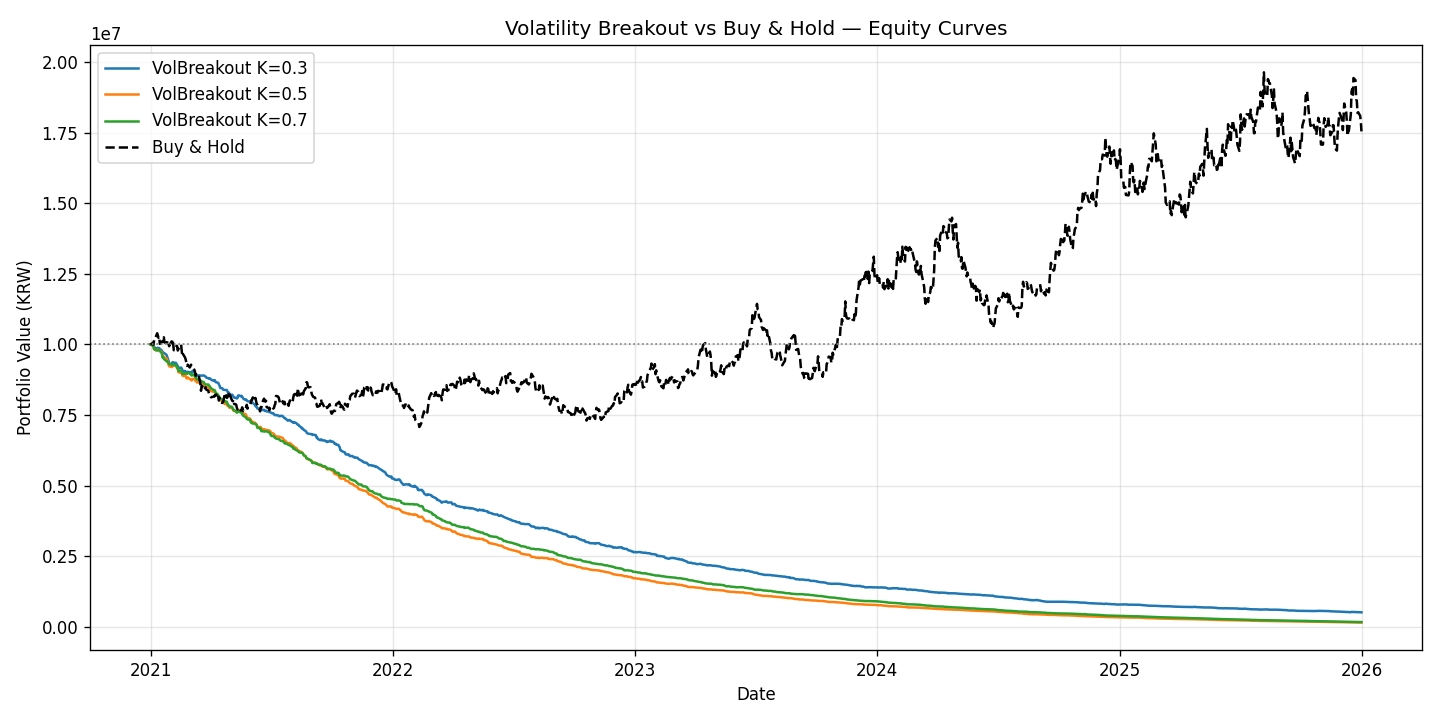
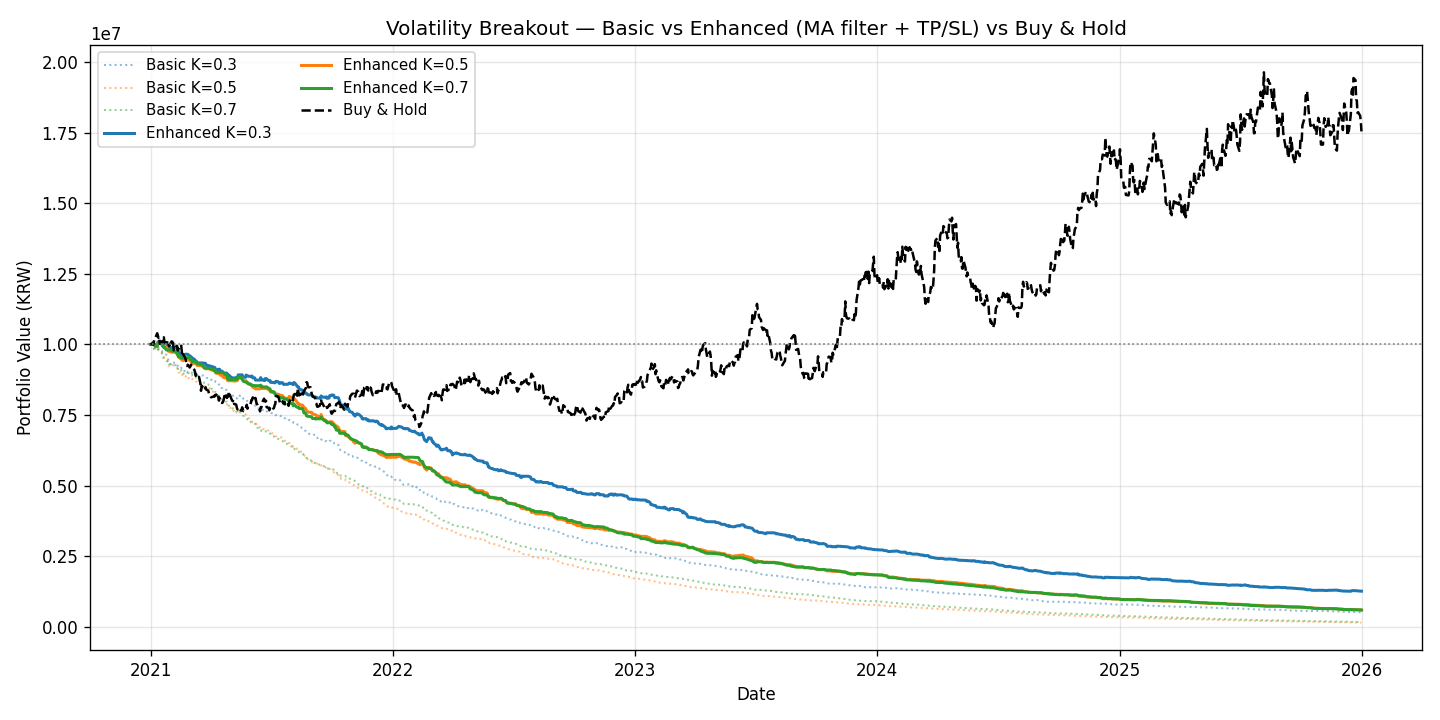
Add MA trend filter and TP/SL exit logic (enhanced strategy)
- run_breakout_enhanced: 5일 이동평균 추세 필터 + ±5%/-3% 익절·손절
- 매수 조건: 변동성 돌파 AND 시가 ≥ 5일 종가 이동평균
- 청산 우선순위: 손절 → 익절 → 종가 매도
- 결과 표/차트에 basic vs enhanced 동시 비교 추가
- 청산 사유별 카운트(tp/sl/close) 출력

https://claude.ai/code/session_01TvzMHyqGmkrN4QV4tk95NB

Changed region(s): [[0.0938, 0.4583, 0.9375, 0.8861], [0.0625, 0.0306, 0.7812, 0.2444]]

diff --git a/volatility_breakout.py b/volatility_breakout.py
@@ -38,6 +38,12 @@ INITIAL_CAPITAL = 10_000_000
 BUY_COST = 0.00015      # 0.015%
 SELL_COST = 0.00195     # 0.195% (수수료 + 세금)
 SLIPPAGE = 0.001        # 0.1%
+
+# Enhanced 전략 파라미터
+MA_WINDOW = 5           # 5일 이동평균 추세 필터
+TAKE_PROFIT = 0.05      # +5% 익절
+STOP_LOSS = 0.03        # −3% 손절
+
 RESULTS_DIR = Path(__file__).resolve().parent / "results"
 
 
@@ -159,6 +165,77 @@ def run_breakout(df: pd.DataFrame, k: float, capital: float) -> dict:
     }
 
 
+def run_breakout_enhanced(
+    df: pd.DataFrame,
+    k: float,
+    capital: float,
+    ma_window: int = MA_WINDOW,
+    take_profit: float = TAKE_PROFIT,
+    stop_loss: float = STOP_LOSS,
+) -> dict:
+    """추세 필터 + 익절/손절이 적용된 변동성 돌파 전략.
+
+    매수 조건 (모두 충족해야 진입):
+        ① 당일 고가 ≥ 매수 기준가 (기존 변동성 돌파)
+        ② 당일 시가 ≥ 직전 ma_window일 종가 이동평균 (상승 추세 필터)
+
+    청산 우선순위:
+        ③ 당일 저가 ≤ 손절가(target × (1-stop_loss)) → 손절가 매도
+        ④ 당일 고가 ≥ 익절가(target × (1+take_profit)) → 익절가 매도
+        ⑤ 그 외 → 종가 매도
+        (③④ 모두 도달 시 보수적으로 손절 우선 처리)
+    """
+    target, triggered = breakout_signals(df, k)
+    valid_prices = (target > 0) & (df["close"] > 0) & target.notna() & df["close"].notna()
+    triggered = triggered & valid_prices
+
+    # 추세 필터: 시가가 직전 ma_window일 종가 이동평균 위
+    ma = df["close"].shift(1).rolling(ma_window).mean()
+    trend_ok = (df["open"] >= ma).fillna(False)
+    triggered = triggered & trend_ok
+
+    tp_price = target * (1 + take_profit)
+    sl_price = target * (1 - stop_loss)
+
+    hit_sl = triggered & (df["low"] <= sl_price)
+    hit_tp = triggered & (df["high"] >= tp_price) & ~hit_sl
+    hit_close = triggered & ~hit_sl & ~hit_tp
+
+    exit_price = pd.Series(np.nan, index=df.index, dtype=float)
+    exit_price[hit_sl] = sl_price[hit_sl]
+    exit_price[hit_tp] = tp_price[hit_tp]
+    exit_price[hit_close] = df["close"][hit_close]
+
+    eff_entry = target * (1 + SLIPPAGE) * (1 + BUY_COST)
+    eff_exit = exit_price * (1 - SLIPPAGE) * (1 - SELL_COST)
+
+    daily_ret = pd.Series(0.0, index=df.index)
+    raw = (eff_exit[triggered] / eff_entry[triggered]) - 1.0
+    raw = raw.clip(lower=-0.5, upper=0.5)
+    raw = raw.replace([np.inf, -np.inf], 0.0).fillna(0.0)
+    daily_ret.loc[triggered] = raw
+
+    equity = capital * (1 + daily_ret).cumprod()
+    n_trades = int(triggered.sum())
+    wins = int((daily_ret[triggered] > 0).sum())
+    win_rate = wins / n_trades if n_trades else 0.0
+    total_return = equity.iloc[-1] / capital - 1
+    mdd = (equity / equity.cummax() - 1).min()
+
+    return {
+        "equity": equity,
+        "daily_return": daily_ret,
+        "triggered": triggered,
+        "total_return": float(total_return),
+        "mdd": float(mdd),
+        "win_rate": float(win_rate),
+        "trades": n_trades,
+        "tp_count": int(hit_tp.sum()),
+        "sl_count": int(hit_sl.sum()),
+        "close_count": int(hit_close.sum()),
+    }
+
+
 def run_buy_and_hold(df: pd.DataFrame, capital: float) -> pd.Series:
     """첫날 시가 매수 → 마지막 날 종가 매도 (수수료·슬리피지 반영)."""
     entry_price = df["open"].iloc[0] * (1 + SLIPPAGE) * (1 + BUY_COST)
@@ -197,26 +274,45 @@ def main() -> None:
     cap_per_stock = INITIAL_CAPITAL / n
 
     per_rows: list[dict] = []
-    portfolios: dict[float, pd.Series] = {}
+    portfolios_basic: dict[float, pd.Series] = {}
+    portfolios_enhanced: dict[float, pd.Series] = {}
 
     for k in K_VALUES:
-        portfolio_eq: pd.Series | None = None
+        eq_basic_total: pd.Series | None = None
+        eq_enh_total: pd.Series | None = None
         for ticker, df in data.items():
-            res = run_breakout(df, k, cap_per_stock)
-            vbt_extra = vbt_stats_from_returns(res["daily_return"], cap_per_stock)
+            res_b = run_breakout(df, k, cap_per_stock)
+            res_e = run_breakout_enhanced(df, k, cap_per_stock)
+            vbt_b = vbt_stats_from_returns(res_b["daily_return"], cap_per_stock)
+            vbt_e = vbt_stats_from_returns(res_e["daily_return"], cap_per_stock)
             per_rows.append({
-                "ticker": ticker,
-                "name": TICKERS[ticker],
-                "K": k,
-                "total_return_%": round(res["total_return"] * 100, 2),
-                "mdd_%": round(res["mdd"] * 100, 2),
-                "win_rate_%": round(res["win_rate"] * 100, 2),
-                "trades": res["trades"],
-                "vbt_sharpe": round(vbt_extra["vbt_sharpe"], 3),
+                "strategy": "basic",
+                "ticker": ticker, "name": TICKERS[ticker], "K": k,
+                "total_return_%": round(res_b["total_return"] * 100, 2),
+                "mdd_%": round(res_b["mdd"] * 100, 2),
+                "win_rate_%": round(res_b["win_rate"] * 100, 2),
+                "trades": res_b["trades"],
+                "tp_count": "-", "sl_count": "-", "close_count": "-",
+                "vbt_sharpe": round(vbt_b["vbt_sharpe"], 3),
             })
-            eq = res["equity"]
-            portfolio_eq = eq if portfolio_eq is None else portfolio_eq.add(eq, fill_value=0)
-        portfolios[k] = portfolio_eq
+            per_rows.append({
+                "strategy": "enhanced",
+                "ticker": ticker, "name": TICKERS[ticker], "K": k,
+                "total_return_%": round(res_e["total_return"] * 100, 2),
+                "mdd_%": round(res_e["mdd"] * 100, 2),
+                "win_rate_%": round(res_e["win_rate"] * 100, 2),
+                "trades": res_e["trades"],
+                "tp_count": res_e["tp_count"],
+                "sl_count": res_e["sl_count"],
+                "close_count": res_e["close_count"],
+                "vbt_sharpe": round(vbt_e["vbt_sharpe"], 3),
+            })
+            eq_basic_total = res_b["equity"] if eq_basic_total is None \
+                else eq_basic_total.add(res_b["equity"], fill_value=0)
+            eq_enh_total = res_e["equity"] if eq_enh_total is None \
+                else eq_enh_total.add(res_e["equity"], fill_value=0)
+        portfolios_basic[k] = eq_basic_total
+        portfolios_enhanced[k] = eq_enh_total
 
     # Buy & hold portfolio
     bh_equity: pd.Series | None = None
@@ -225,23 +321,22 @@ def main() -> None:
         bh_equity = eq if bh_equity is None else bh_equity.add(eq, fill_value=0)
 
     # Per-stock × K table
-    df_per = pd.DataFrame(per_rows).sort_values(["K", "ticker"]).reset_index(drop=True)
+    df_per = pd.DataFrame(per_rows).sort_values(["strategy", "K", "ticker"]).reset_index(drop=True)
 
     # Portfolio summary
-    summary_rows: list[dict] = []
-    for k, eq in portfolios.items():
-        summary_rows.append({
-            "strategy": f"VolatilityBreakout K={k}",
+    def stats(eq: pd.Series) -> dict:
+        return {
             "final_value": round(float(eq.iloc[-1]), 0),
             "total_return_%": round(eq.iloc[-1] / INITIAL_CAPITAL * 100 - 100, 2),
             "mdd_%": round(float((eq / eq.cummax() - 1).min()) * 100, 2),
-        })
-    summary_rows.append({
-        "strategy": "Buy&Hold (equal weight)",
-        "final_value": round(float(bh_equity.iloc[-1]), 0),
-        "total_return_%": round(bh_equity.iloc[-1] / INITIAL_CAPITAL * 100 - 100, 2),
-        "mdd_%": round(float((bh_equity / bh_equity.cummax() - 1).min()) * 100, 2),
-    })
+        }
+
+    summary_rows: list[dict] = []
+    for k, eq in portfolios_basic.items():
+        summary_rows.append({"strategy": f"Basic K={k}", **stats(eq)})
+    for k, eq in portfolios_enhanced.items():
+        summary_rows.append({"strategy": f"Enhanced K={k} (MA{MA_WINDOW}+TP{int(TAKE_PROFIT*100)}%/SL{int(STOP_LOSS*100)}%)", **stats(eq)})
+    summary_rows.append({"strategy": "Buy&Hold (equal weight)", **stats(bh_equity)})
     df_summary = pd.DataFrame(summary_rows)
 
     # Save outputs
@@ -250,17 +345,22 @@ def main() -> None:
     df_per.to_csv(per_csv, index=False, encoding="utf-8-sig")
     df_summary.to_csv(sum_csv, index=False, encoding="utf-8-sig")
 
-    # Equity curve chart
+    # Equity curve chart — basic vs enhanced vs buy&hold
     fig, ax = plt.subplots(figsize=(12, 6))
-    for k, eq in portfolios.items():
-        ax.plot(eq.index, eq.values, label=f"VolBreakout K={k}", linewidth=1.5)
+    colors_b = {0.3: "#1f77b4", 0.5: "#ff7f0e", 0.7: "#2ca02c"}
+    for k, eq in portfolios_basic.items():
+        ax.plot(eq.index, eq.values, color=colors_b[k], alpha=0.5,
+                linestyle=":", linewidth=1.2, label=f"Basic K={k}")
+    for k, eq in portfolios_enhanced.items():
+        ax.plot(eq.index, eq.values, color=colors_b[k],
+                linewidth=1.8, label=f"Enhanced K={k}")
     ax.plot(bh_equity.index, bh_equity.values, "--", color="black",
-            label="Buy & Hold", linewidth=1.5)
+            linewidth=1.5, label="Buy & Hold")
     ax.axhline(INITIAL_CAPITAL, color="gray", linestyle=":", linewidth=1)
-    ax.set_title("Volatility Breakout vs Buy & Hold — Equity Curves")
+    ax.set_title("Volatility Breakout — Basic vs Enhanced (MA filter + TP/SL) vs Buy & Hold")
     ax.set_xlabel("Date")
     ax.set_ylabel("Portfolio Value (KRW)")
-    ax.legend(loc="best")
+    ax.legend(loc="best", ncol=2, fontsize=9)
     ax.grid(True, alpha=0.3)
     fig.tight_layout()
     chart_path = RESULTS_DIR / "equity_curves.png"
@@ -269,12 +369,12 @@ def main() -> None:
 
     # Drawdown chart
     fig2, ax2 = plt.subplots(figsize=(12, 4))
-    for k, eq in portfolios.items():
+    for k, eq in portfolios_enhanced.items():
         dd = eq / eq.cummax() - 1
-        ax2.plot(dd.index, dd.values * 100, label=f"K={k}")
+        ax2.plot(dd.index, dd.values * 100, color=colors_b[k], label=f"Enhanced K={k}")
     bh_dd = bh_equity / bh_equity.cummax() - 1
     ax2.plot(bh_dd.index, bh_dd.values * 100, "--", color="black", label="Buy & Hold")
-    ax2.set_title("Drawdown (%)")
+    ax2.set_title("Drawdown (%) — Enhanced strategies vs Buy & Hold")
     ax2.set_ylabel("Drawdown (%)")
     ax2.grid(True, alpha=0.3)
     ax2.legend(loc="best")
@@ -284,13 +384,14 @@ def main() -> None:
     plt.close(fig2)
 
     # Console output
-    pd.set_option("display.width", 140)
+    pd.set_option("display.width", 160)
     pd.set_option("display.max_columns", None)
-    print("\n=== 종목 × K 값별 결과 ===")
+    print("\n=== 종목 × K 값별 결과 (basic vs enhanced) ===")
     print(df_per.to_string(index=False))
     print("\n=== 포트폴리오 요약 (초기 자본 1천만원, 1/N) ===")
     print(df_summary.to_string(index=False))
-    print(f"\n저장: {per_csv}, {sum_csv}, {chart_path}, {dd_path}")
+    print(f"\n파라미터: MA{MA_WINDOW}, TP=+{TAKE_PROFIT*100:.0f}%, SL=−{STOP_LOSS*100:.0f}%")
+    print(f"저장: {per_csv}, {sum_csv}, {chart_path}, {dd_path}")
 
 
 if __name__ == "__main__":
